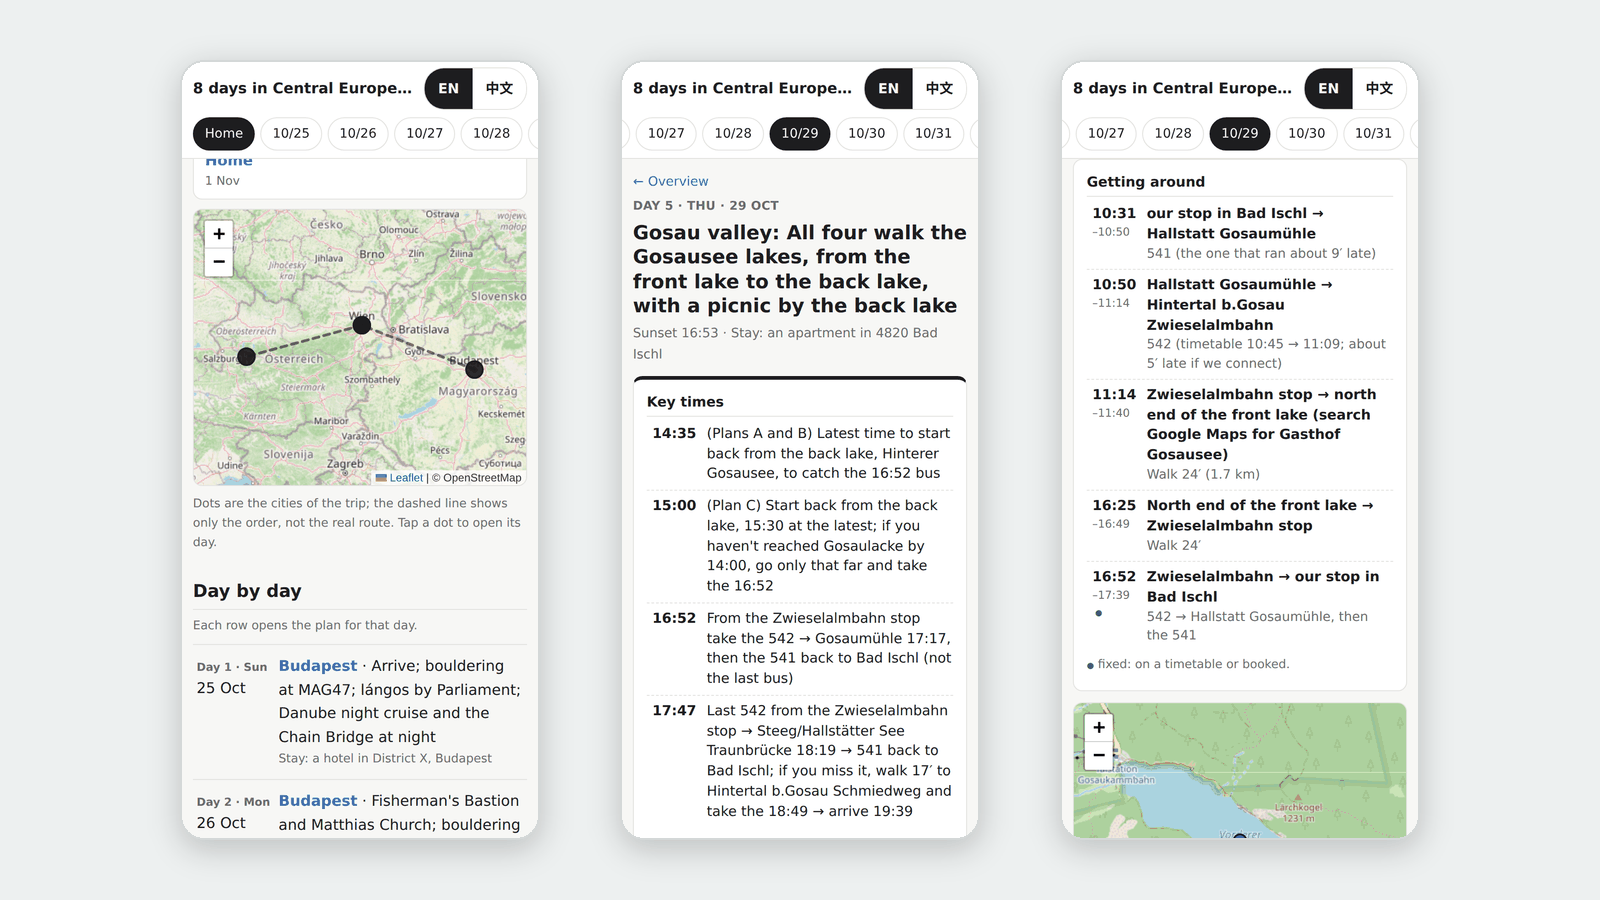
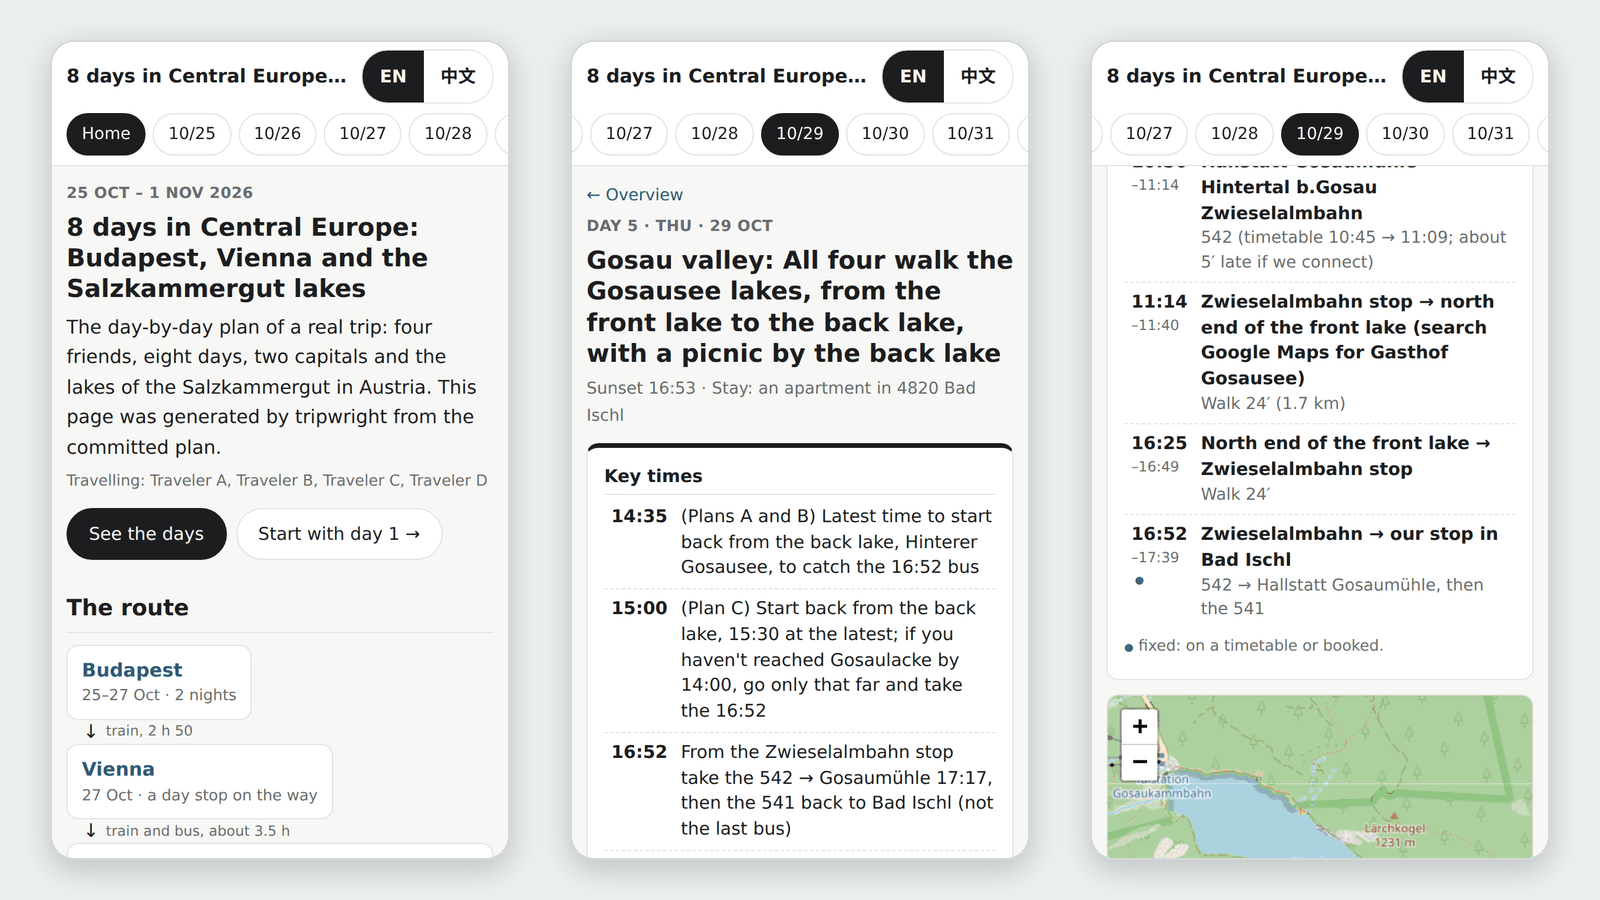
Refine trip page styling and enlarge hero previews
Match the logo accent, tighten desktop route cards, and show the home page top in larger localized previews.

Changed region(s): [[0.0312, 0.0311, 0.9688, 0.9644]]

diff --git a/src/tripwright/site/share_static/share.css b/src/tripwright/site/share_static/share.css
@@ -1,5 +1,5 @@
-:root{color-scheme:light dark;--bg:#f7f7f5;--fg:#1d1d1f;--muted:#6b6b70;--line:#e3e3e0;--card:#fff;--acc:#2f6fdb;--acc-bg:#eef4ff;--warn:#d08800;--warn-bg:#fff6e5;--ok:#2e8b57}
-@media(prefers-color-scheme:dark){:root{--bg:#171a1c;--fg:#e7e8e9;--muted:#a3a8ad;--line:#33393d;--card:#212528;--acc:#8dbaff;--acc-bg:#1f2a3a;--warn:#f0c760;--warn-bg:#33291a;--ok:#8cdbac}}
+:root{color-scheme:light dark;--bg:#f7f7f5;--fg:#1d1d1f;--muted:#6b6b70;--line:#e3e3e0;--card:#fff;--acc:#0f766e;--acc-bg:#e6f4f2;--warn:#d08800;--warn-bg:#fff6e5;--ok:#2e8b57}
+@media(prefers-color-scheme:dark){:root{--bg:#171a1c;--fg:#e7e8e9;--muted:#a3a8ad;--line:#33393d;--card:#212528;--acc:#5ecdc1;--acc-bg:#16302e;--warn:#f0c760;--warn-bg:#33291a;--ok:#8cdbac}}
 *{box-sizing:border-box}
 body{margin:0;background:var(--bg);color:var(--fg);font:16px/1.6 system-ui,-apple-system,"Segoe UI","PingFang SC","Noto Sans CJK SC","Microsoft YaHei",sans-serif;overflow-wrap:anywhere}
 a{color:var(--acc);text-decoration:none}a:hover{text-decoration:underline}
@@ -32,8 +32,8 @@ p{margin:6px 0}
 .btn{display:inline-flex;align-items:center;min-height:44px;padding:0 18px;border:1px solid var(--line);border-radius:22px;background:var(--card);color:var(--fg);font-size:15px}
 .btn:hover{text-decoration:none;background:var(--bg)}.btn.primary{background:var(--fg);color:var(--bg);border-color:var(--fg)}
 /* home: route */
-.route{list-style:none;padding:0;margin:10px 0;display:flex;align-items:stretch;gap:4px}
-.route .stop{flex:1 1 0;min-width:0;background:var(--card);border:1px solid var(--line);border-radius:10px;padding:8px 12px}
+.route{list-style:none;padding:0;margin:10px 0;display:flex;align-items:flex-start;gap:4px}
+.route .stop{flex:1 1 auto;min-width:120px;background:var(--card);border:1px solid var(--line);border-radius:10px;padding:8px 12px}
 .route .stop a,.route .stop>div{display:block;color:var(--fg)}.route .stop a:hover{text-decoration:none}
 .route b{display:block;font-size:16px}.route a b{color:var(--acc)}.route .stop>a>span,.route .stop>div>span{display:block;font-size:13px;color:var(--muted)}
 .route .leg{flex:0 0 84px;display:flex;flex-direction:column;justify-content:center;align-items:center;text-align:center;font-size:12px;line-height:1.3;color:var(--muted)}
